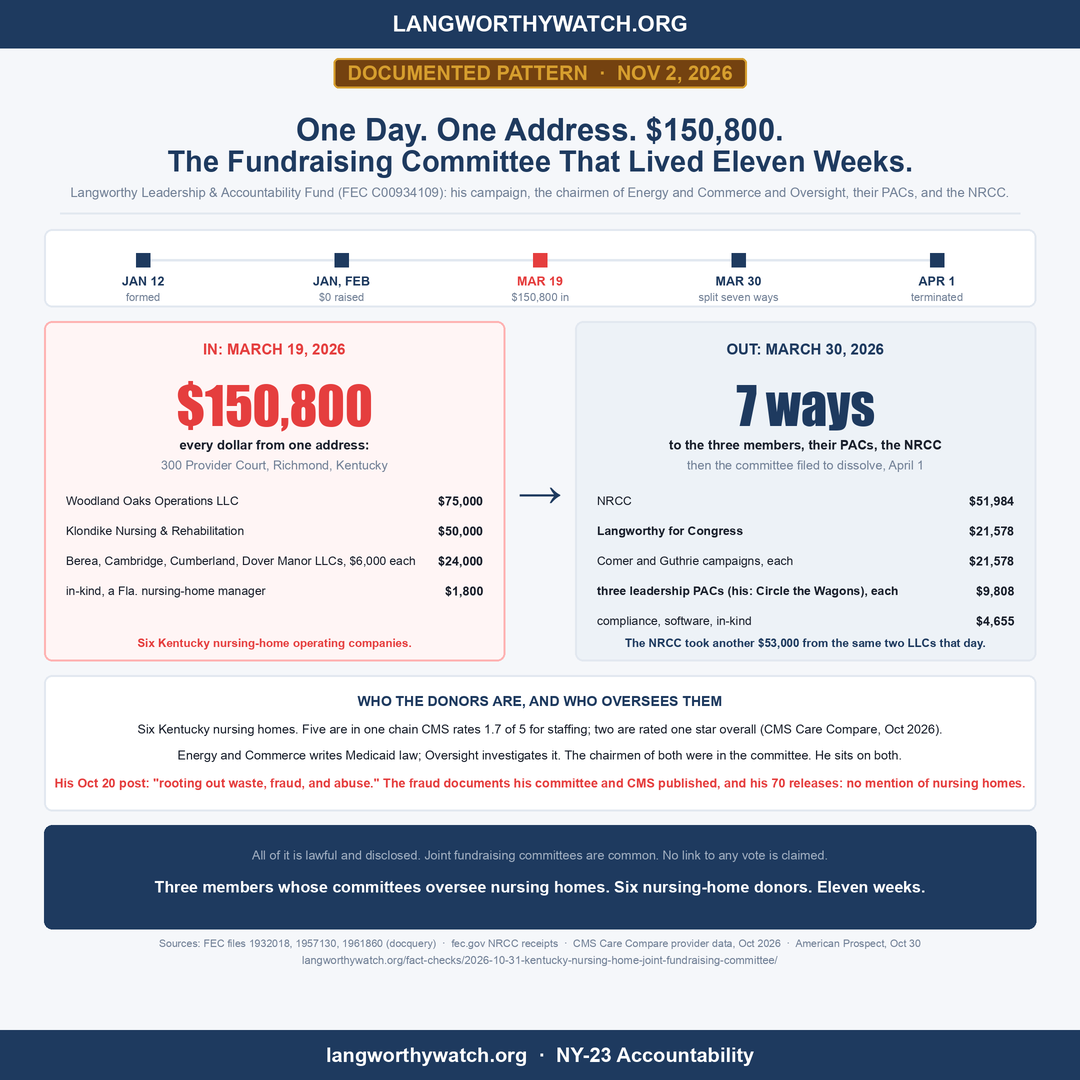
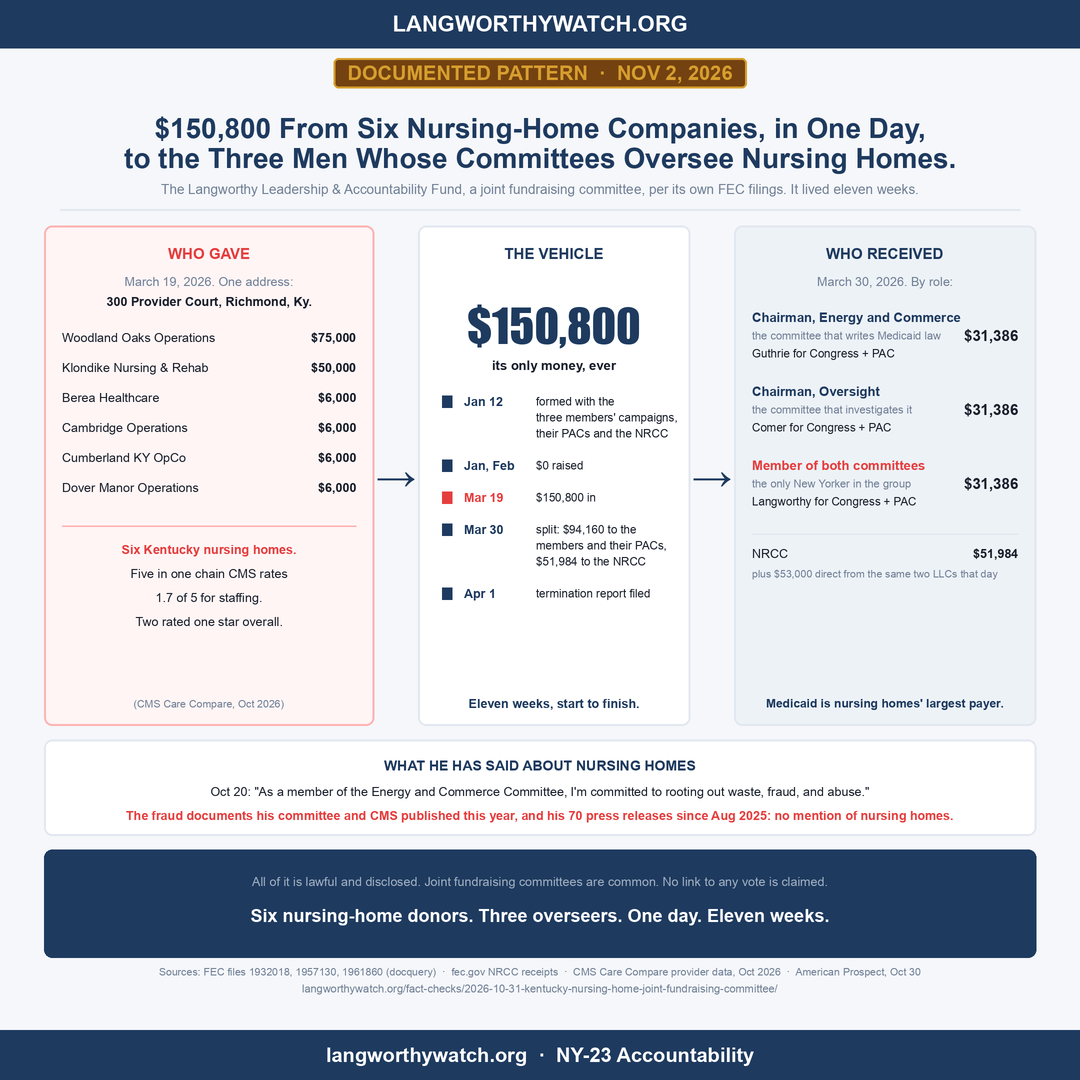
Rebuild Kentucky JFC card (v2): three-stage flow, recipients by oversight role; caption tightened

diff --git a/social-media/create_kentucky_jfc_card.py b/social-media/create_kentucky_jfc_card.py
@@ -1,7 +1,7 @@
 #!/usr/bin/env python3
 """Kentucky nursing-home joint fundraising committee, entry 2026-10-31-kentucky-nursing-home-joint-fundraising-committee
-(DOCUMENTED PATTERN). Figures from FEC files 1932018 (F1), 1957130 (termination report), 1961860 (LfC Q1 2026),
-CMS Care Compare Oct 2026; retained under research/sources/prospect-nursing-home-2026-10-30/."""
+(DOCUMENTED PATTERN). v2: three-stage flow (who gave -> the vehicle -> who received, by role). Figures from FEC files 1932018,
+1957130, 1961860; CMS Care Compare Oct 2026; retained under research/sources/prospect-nursing-home-2026-10-30/."""
 import sys, os
 sys.path.insert(0, os.path.dirname(os.path.abspath(__file__)))
 from lib.card import (Card, NAVY, DARK, RED, GREEN, MUTED, BORDER, WHITE, LIGHTGRAY)
@@ -9,75 +9,97 @@ from lib.card import (Card, NAVY, DARK, RED, GREEN, MUTED, BORDER, WHITE, LIGHTG
 c = Card(scale=2)
 c.brand_bar()
 y = c.badge(58, "DOCUMENTED PATTERN  ·  NOV 2, 2026")
-y = c.title(y, "One Day. One Address. $150,800.", size=31)
-y = c.title(y - 2, "The Fundraising Committee That Lived Eleven Weeks.", size=29)
-y = c.subtitle(y + 6, "Langworthy Leadership & Accountability Fund (FEC C00934109): his campaign, the chairmen of Energy and Commerce and Oversight, their PACs, and the NRCC.", size=13)
+y = c.title(y, "$150,800 From Six Nursing-Home Companies, in One Day,", size=28)
+y = c.title(y - 2, "to the Three Men Whose Committees Oversee Nursing Homes.", size=28)
+y = c.subtitle(y + 6, "The Langworthy Leadership & Accountability Fund, a joint fundraising committee, per its own FEC filings. It lived eleven weeks.", size=13.5)
 y = c.divider(y + 12)
 
-# Timeline strip
-tl_h = 78
-c.panel(44, y, c.w - 44, y + tl_h, fill=WHITE, outline=BORDER)
-steps = [("JAN 12", "formed"), ("JAN, FEB", "$0 raised"), ("MAR 19", "$150,800 in"), ("MAR 30", "split seven ways"), ("APR 1", "terminated")]
-sw = (c.w - 88) / len(steps)
-c.rect(44 + sw / 2, y + 30, c.w - 44 - sw / 2, y + 32, fill=BORDER, outline=None)
-for i, (d, lab) in enumerate(steps):
-    cx = 44 + sw * i + sw / 2
-    col = RED if i == 2 else NAVY
-    c.rect(cx - 7, y + 24, cx + 7, y + 38, fill=col, outline=None)
-    c.text(cx, y + 52, d, size=12.5, bold=True, fill=col, anchor="mm")
-    c.text(cx, y + 68, lab, size=11, fill=MUTED, anchor="mm")
-y += tl_h + 14
-
-# Flow: in -> out
-col_w = (c.w - 44 * 2 - 70) // 2
-col_h = 340
+# Three-stage flow
+gap = 44
+inner = c.w - 44 * 2
+left_w, mid_w = 330, 272
+right_w = inner - left_w - mid_w - gap * 2
 lx = 44
-rx = c.w - 44 - col_w
+mx = lx + left_w + gap
+rx = mx + mid_w + gap
 top = y
-c.panel(lx, top, lx + col_w, top + col_h, fill="#FFF5F5", outline="#FEB2B2")
-c.text(lx + col_w / 2, top + 28, "IN: MARCH 19, 2026", size=15, bold=True, fill=RED, anchor="mm")
-c.text(lx + col_w / 2, top + 84, "$150,800", size=52, impact=True, fill=RED, anchor="mm")
-c.text(lx + col_w / 2, top + 124, "every dollar from one address:", size=13, bold=True, fill=DARK, anchor="mm")
-c.text(lx + col_w / 2, top + 144, "300 Provider Court, Richmond, Kentucky", size=12.5, fill=MUTED, anchor="mm")
-donors = [("Woodland Oaks Operations LLC", "$75,000"), ("Klondike Nursing & Rehabilitation", "$50,000"),
-          ("Berea, Cambridge, Cumberland, Dover Manor LLCs, $6,000 each", "$24,000"),
-          ("in-kind, a Fla. nursing-home manager", "$1,800")]
+flow_h = 500
+
+# LEFT: who gave
+c.panel(lx, top, lx + left_w, top + flow_h, fill="#FFF5F5", outline="#FEB2B2")
+c.text(lx + left_w / 2, top + 28, "WHO GAVE", size=15, bold=True, fill=RED, anchor="mm")
+c.text(lx + left_w / 2, top + 56, "March 19, 2026. One address:", size=12.5, fill=MUTED, anchor="mm")
+c.text(lx + left_w / 2, top + 76, "300 Provider Court, Richmond, Ky.", size=12.5, bold=True, fill=DARK, anchor="mm")
+donors = [("Woodland Oaks Operations", "$75,000"), ("Klondike Nursing & Rehab", "$50,000"), ("Berea Healthcare", "$6,000"),
+          ("Cambridge Operations", "$6,000"), ("Cumberland KY OpCo", "$6,000"), ("Dover Manor Operations", "$6,000")]
 for i, (n, a) in enumerate(donors):
-    ry = top + 180 + i * 30
-    c.text(lx + 22, ry, n, size=12, fill=DARK, anchor="lm")
-    c.text(lx + col_w - 22, ry, a, size=12.5, bold=True, fill=DARK, anchor="rm")
-c.text(lx + col_w / 2, top + col_h - 18, "Six Kentucky nursing-home operating companies.", size=11.5, bold=True, fill=RED, anchor="mm")
+    ry = top + 112 + i * 30
+    c.text(lx + 18, ry, n, size=12.5, fill=DARK, anchor="lm")
+    c.text(lx + left_w - 18, ry, a, size=12.5, bold=True, fill=DARK, anchor="rm")
+c.rect(lx + 18, top + 300, lx + left_w - 18, top + 301, fill="#FEB2B2", outline=None)
+for i, t in enumerate(["Six Kentucky nursing homes.", "Five in one chain CMS rates", "1.7 of 5 for staffing.", "Two rated one star overall."]):
+    c.text(lx + left_w / 2, top + 324 + i * 24, t, size=12.5, bold=(i == 0), fill=RED if i == 0 else DARK, anchor="mm")
+c.text(lx + left_w / 2, top + flow_h - 22, "(CMS Care Compare, Oct 2026)", size=10.5, fill=MUTED, anchor="mm")
 
-# arrow
-ax = lx + col_w + 35
-c.text(ax, top + col_h / 2, "→", size=44, bold=True, fill=NAVY, anchor="mm")
+# arrows
+c.text(lx + left_w + gap / 2, top + flow_h / 2, "→", size=40, bold=True, fill=NAVY, anchor="mm")
+c.text(mx + mid_w + gap / 2, top + flow_h / 2, "→", size=40, bold=True, fill=NAVY, anchor="mm")
 
-c.panel(rx, top, rx + col_w, top + col_h, fill="#EDF2F7", outline=BORDER)
-c.text(rx + col_w / 2, top + 28, "OUT: MARCH 30, 2026", size=15, bold=True, fill=NAVY, anchor="mm")
-c.text(rx + col_w / 2, top + 84, "7 ways", size=52, impact=True, fill=NAVY, anchor="mm")
-c.text(rx + col_w / 2, top + 124, "to the three members, their PACs, the NRCC", size=13, bold=True, fill=DARK, anchor="mm")
-c.text(rx + col_w / 2, top + 144, "then the committee filed to dissolve, April 1", size=12.5, fill=MUTED, anchor="mm")
-outs = [("NRCC", "$51,984"), ("Langworthy for Congress", "$21,578"), ("Comer and Guthrie campaigns, each", "$21,578"),
-        ("three leadership PACs (his: Circle the Wagons), each", "$9,808"), ("compliance, software, in-kind", "$4,655")]
-for i, (n, a) in enumerate(outs):
-    ry = top + 180 + i * 30
-    c.text(rx + 22, ry, n, size=12, bold=("Langworthy" in n or "his" in n), fill=DARK, anchor="lm")
-    c.text(rx + col_w - 22, ry, a, size=12.5, bold=True, fill=DARK, anchor="rm")
-c.text(rx + col_w / 2, top + col_h - 18, "The NRCC took another $53,000 from the same two LLCs that day.", size=11.5, bold=True, fill=NAVY, anchor="mm")
-y = top + col_h + 14
+# MIDDLE: the vehicle
+c.panel(mx, top, mx + mid_w, top + flow_h, fill=WHITE, outline=BORDER)
+c.text(mx + mid_w / 2, top + 28, "THE VEHICLE", size=15, bold=True, fill=NAVY, anchor="mm")
+c.text(mx + mid_w / 2, top + 100, "$150,800", size=46, impact=True, fill=NAVY, anchor="mm")
+c.text(mx + mid_w / 2, top + 140, "its only money, ever", size=13, bold=True, fill=DARK, anchor="mm")
+steps = [("Jan 12", "formed with the", "three members' campaigns,", "their PACs and the NRCC"),
+         ("Jan, Feb", "$0 raised", "", ""),
+         ("Mar 19", "$150,800 in", "", ""),
+         ("Mar 30", "split: $94,160 to the", "members and their PACs,", "$51,984 to the NRCC"),
+         ("Apr 1", "termination report filed", "", "")]
+ty = top + 176
+for d, l1, l2, l3 in steps:
+    col = RED if d == "Mar 19" else NAVY
+    c.rect(mx + 24, ty - 6, mx + 34, ty + 6, fill=col, outline=None)
+    c.text(mx + 46, ty, d, size=12.5, bold=True, fill=col, anchor="lm")
+    c.text(mx + 118, ty, l1, size=11.5, fill=DARK, anchor="lm")
+    n = 1
+    for extra in (l2, l3):
+        if extra:
+            c.text(mx + 118, ty + 16 * n, extra, size=11.5, fill=DARK, anchor="lm"); n += 1
+    ty += 22 + 16 * (n - 1) + 10
+c.text(mx + mid_w / 2, top + flow_h - 22, "Eleven weeks, start to finish.", size=12.5, bold=True, fill=NAVY, anchor="mm")
 
-strip_h = 136
+# RIGHT: who received, by role
+c.panel(rx, top, rx + right_w, top + flow_h, fill="#EDF2F7", outline=BORDER)
+c.text(rx + right_w / 2, top + 28, "WHO RECEIVED", size=15, bold=True, fill=NAVY, anchor="mm")
+c.text(rx + right_w / 2, top + 56, "March 30, 2026. By role:", size=12.5, fill=MUTED, anchor="mm")
+recips = [("Chairman, Energy and Commerce", "the committee that writes Medicaid law", "Guthrie for Congress + PAC", "$31,386"),
+          ("Chairman, Oversight", "the committee that investigates it", "Comer for Congress + PAC", "$31,386"),
+          ("Member of both committees", "the only New Yorker in the group", "Langworthy for Congress + PAC", "$31,386")]
+ry = top + 92
+for role, sub, who, amt in recips:
+    c.text(rx + 18, ry, role, size=13, bold=True, fill=NAVY if "both" not in role else RED, anchor="lm")
+    c.text(rx + 18, ry + 18, sub, size=11, fill=MUTED, anchor="lm")
+    c.text(rx + 18, ry + 36, who, size=11.5, fill=DARK, anchor="lm")
+    c.text(rx + right_w - 18, ry + 18, amt, size=15, bold=True, fill=DARK, anchor="rm")
+    ry += 74
+c.rect(rx + 18, ry - 6, rx + right_w - 18, ry - 5, fill=BORDER, outline=None)
+c.text(rx + 18, ry + 14, "NRCC", size=12.5, fill=DARK, anchor="lm")
+c.text(rx + right_w - 18, ry + 14, "$51,984", size=12.5, bold=True, fill=DARK, anchor="rm")
+c.text(rx + 18, ry + 34, "plus $53,000 direct from the same two LLCs that day", size=10.5, fill=MUTED, anchor="lm")
+c.text(rx + right_w / 2, top + flow_h - 22, "Medicaid is nursing homes' largest payer.", size=12, bold=True, fill=NAVY, anchor="mm")
+y = top + flow_h + 14
+
+strip_h = 96
 c.panel(44, y, c.w - 44, y + strip_h, fill=WHITE, outline=BORDER)
-c.text(c.w / 2, y + 26, "WHO THE DONORS ARE, AND WHO OVERSEES THEM", size=14, bold=True, fill=NAVY, anchor="mm")
-c.text(c.w / 2, y + 54, "Six Kentucky nursing homes. Five are in one chain CMS rates 1.7 of 5 for staffing; two are rated one star overall (CMS Care Compare, Oct 2026).", size=12.5, fill=DARK, anchor="mm")
-c.text(c.w / 2, y + 80, "Energy and Commerce writes Medicaid law; Oversight investigates it. The chairmen of both were in the committee. He sits on both.", size=12.5, fill=DARK, anchor="mm")
-c.text(c.w / 2, y + 108, "His Oct 20 post: \"rooting out waste, fraud, and abuse.\" The fraud documents his committee and CMS published, and his 70 releases: no mention of nursing homes.", size=12.5, bold=True, fill=RED, anchor="mm")
+c.text(c.w / 2, y + 26, "WHAT HE HAS SAID ABOUT NURSING HOMES", size=14, bold=True, fill=NAVY, anchor="mm")
+c.text(c.w / 2, y + 52, "Oct 20: \"As a member of the Energy and Commerce Committee, I'm committed to rooting out waste, fraud, and abuse.\"", size=12.5, fill=DARK, anchor="mm")
+c.text(c.w / 2, y + 76, "The fraud documents his committee and CMS published this year, and his 70 press releases since Aug 2025: no mention of nursing homes.", size=12.5, bold=True, fill=RED, anchor="mm")
 y += strip_h + 14
 
-kick_h = 104
+kick_h = 108
 c.panel(44, y, c.w - 44, y + kick_h, fill=NAVY, outline=None)
-c.text(c.w / 2, y + 30, "All of it is lawful and disclosed. Joint fundraising committees are common. No link to any vote is claimed.", size=12.5, fill=LIGHTGRAY, anchor="mm")
-c.text(c.w / 2, y + 62, "Three members whose committees oversee nursing homes. Six nursing-home donors. Eleven weeks.", size=16, bold=True, fill=WHITE, anchor="mm")
+c.text(c.w / 2, y + 32, "All of it is lawful and disclosed. Joint fundraising committees are common. No link to any vote is claimed.", size=12.5, fill=LIGHTGRAY, anchor="mm")
+c.text(c.w / 2, y + 66, "Six nursing-home donors. Three overseers. One day. Eleven weeks.", size=18, bold=True, fill=WHITE, anchor="mm")
 y += kick_h + 14
 c.text(c.w / 2, y, "Sources: FEC files 1932018, 1957130, 1961860 (docquery)  ·  fec.gov NRCC receipts  ·  CMS Care Compare provider data, Oct 2026  ·  American Prospect, Oct 30", size=10.5, fill=MUTED, anchor="mm")
 c.text(c.w / 2, y + 17, "langworthywatch.org/fact-checks/2026-10-31-kentucky-nursing-home-joint-fundraising-committee/", size=11, fill=MUTED, anchor="mm")

diff --git a/social-media/kentucky_jfc_post.md b/social-media/kentucky_jfc_post.md
@@ -1,19 +1,19 @@
-# DRAFT Nov 2, 2026 (Kentucky nursing-home JFC; entry 2026-10-31-kentucky-nursing-home-joint-fundraising-committee, DOCUMENTED PATTERN)
+# DRAFT Nov 2, 2026 v2 (Kentucky nursing-home JFC; entry 2026-10-31-kentucky-nursing-home-joint-fundraising-committee, DOCUMENTED PATTERN)
 # Card: kentucky_jfc_card.png (create_kentucky_jfc_card.py)
 
 A fundraising committee he formed with the two chairmen who oversee nursing homes existed for eleven weeks. It raised money on one day. Every dollar came from six nursing-home companies at one Kentucky address. Then it closed.
 
 VERDICT: DOCUMENTED PATTERN
 
-→ January 12, 2026: the Langworthy Leadership & Accountability Fund registers with the FEC. Participants: his campaign, Guthrie for Congress, Comer for Congress, all three members' leadership PACs, and the NRCC. Brett Guthrie chairs Energy and Commerce, which writes Medicaid law. James Comer chairs Oversight. He sits on both.
+→ January 12, 2026: the Langworthy Leadership & Accountability Fund registers with the FEC. Its members: the chairman of Energy and Commerce, which writes Medicaid law; the chairman of Oversight, which investigates it; and him, who sits on both. Plus their three leadership PACs and the NRCC.
 → January and February: nothing raised.
 → March 19: $150,800, all from 300 Provider Court, Richmond, Kentucky. Woodland Oaks Operations $75,000. Klondike Nursing and Rehabilitation $50,000. Four more nursing-home LLCs at $6,000 each. The NRCC separately took $53,000 from the same two companies that day.
-→ March 30: split seven ways. $51,984 to the NRCC, $21,578 to each of the three campaigns, $9,808 to each leadership PAC. April 1: termination report filed.
+→ March 30: $31,386 to each of the three members, campaign plus PAC, and $51,984 to the NRCC. April 1: termination report filed.
 → The donors operate six Kentucky nursing homes. Five are in a chain CMS rates 1.7 of 5 for staffing. Two are rated one star overall.
 → On October 20 he posted that he is "rooting out waste, fraud, and abuse" in Medicaid. The fraud documents his committee and CMS published this year, and his 70 press releases since August 2025, contain no mention of nursing homes. His one recorded nursing-home action is a vote for the law that blocked the federal staffing rule.
 
 What is ordinary here: joint fundraising committees are a routine tool, LLC gifts are lawful when attributed to their owners, the filings were made on time, and $31,386 to his campaign and PAC is small next to the $2.3 million he has raised. Two of the six homes are four-star. No link to any vote is claimed.
 
-What the record shows is the shape: three members whose committees oversee nursing homes, six nursing-home donors, one check-writing day, eleven weeks. He has taken $55,000 from another nursing-home operator before; that entry is linked, and so is every filing.
+What the record shows is the shape: six nursing-home donors, three overseers, one check-writing day, eleven weeks. He has taken $55,000 from another nursing-home operator before; that entry is linked, and so is every filing.
 
 https://langworthywatch.org/fact-checks/2026-10-31-kentucky-nursing-home-joint-fundraising-committee/
